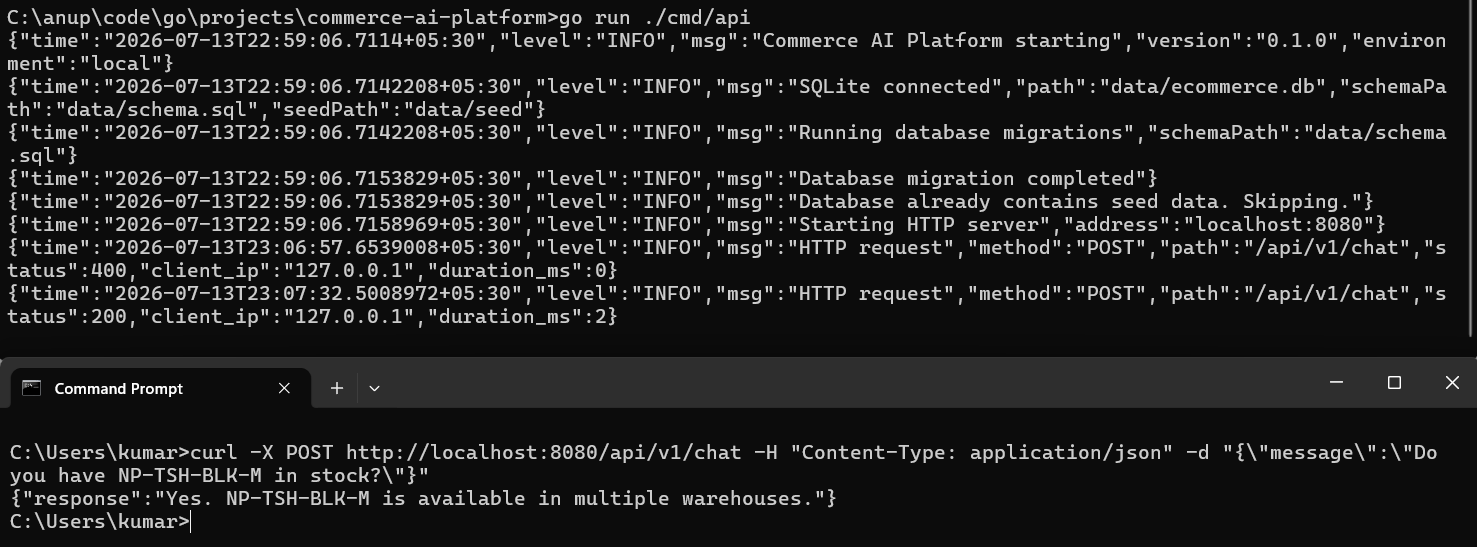
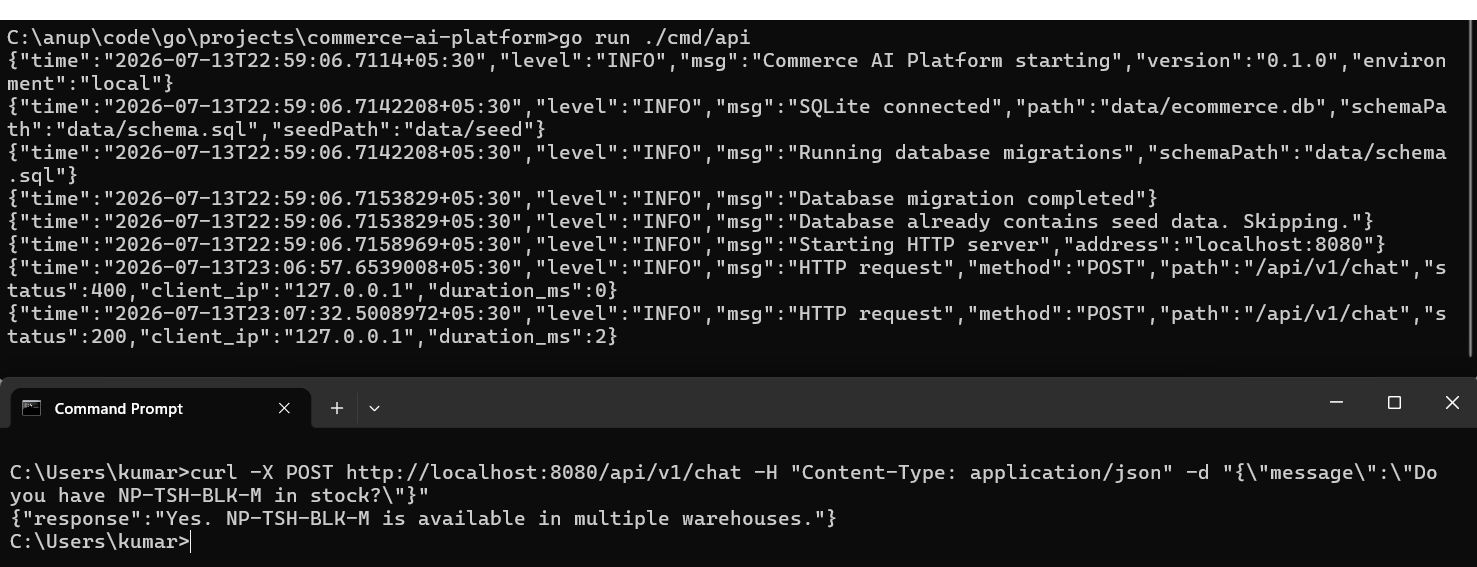
AI-001-06 Execute inventory tool against SQLite

diff --git a/internal/llm/mock/client.go b/internal/llm/mock/client.go
@@ -2,8 +2,11 @@ package mock
 
 import (
 	"context"
+	"encoding/json"
+	"fmt"
 	"strings"
 
+	"github.com/mayankanup/commerce-ai-platform/internal/inventory/domain"
 	"github.com/mayankanup/commerce-ai-platform/internal/llm"
 )
 
@@ -12,7 +15,6 @@ type Client struct {
 }
 
 func New() *Client {
-
 	return &Client{
 		scenarios: defaultScenarios(),
 	}
@@ -35,17 +37,32 @@ func (c *Client) Chat(
 
 	last := messages[len(messages)-1]
 
-	// Second call after tool execution.
+	//----------------------------------------------------
+	// SECOND CALL (tool response)
+	//----------------------------------------------------
 	if last.Role == llm.ToolRole {
 
-		for _, scenario := range c.scenarios {
+		if last.ToolName == "check_inventory" {
 
-			if last.ToolName == "check_inventory" {
-				response := scenario.FinalResponse
-				return &response, nil
+			var result domain.CheckInventoryResult
+
+			if err := json.Unmarshal(
+				[]byte(last.Content),
+				&result,
+			); err != nil {
+				return nil, err
 			}
+
+			return &llm.Message{
+				Role:    llm.AssistantRole,
+				Content: formatInventory(result),
+			}, nil
 		}
 	}
+
+	//----------------------------------------------------
+	// FIRST CALL (user prompt)
+	//----------------------------------------------------
 
 	prompt := strings.TrimSpace(messages[0].Content)
 
@@ -60,8 +77,52 @@ func (c *Client) Chat(
 
 	return &llm.Message{
 		Role:    llm.AssistantRole,
-		Content: "Sorry, I don't know how to answer that yet.",
+		Content: "Sorry, I don't understand.",
 	}, nil
+}
+
+func formatInventory(
+	result domain.CheckInventoryResult,
+) string {
+
+	if result.TotalQuantity == 0 {
+		return fmt.Sprintf(
+			"%s is currently out of stock.",
+			result.SKU,
+		)
+	}
+
+	var builder strings.Builder
+
+	builder.WriteString(
+		fmt.Sprintf(
+			"%s is available.\n\n",
+			result.SKU,
+		),
+	)
+
+	builder.WriteString(
+		fmt.Sprintf(
+			"Total Available: %d\n\n",
+			result.TotalQuantity,
+		),
+	)
+
+	builder.WriteString("Warehouse Inventory:\n")
+
+	for _, warehouse := range result.Warehouses {
+
+		builder.WriteString(
+			fmt.Sprintf(
+				"- %s (%s): %d available\n",
+				warehouse.Warehouse.Name,
+				warehouse.Warehouse.City,
+				warehouse.Available,
+			),
+		)
+	}
+
+	return builder.String()
 }
 
 func defaultScenarios() []Scenario {